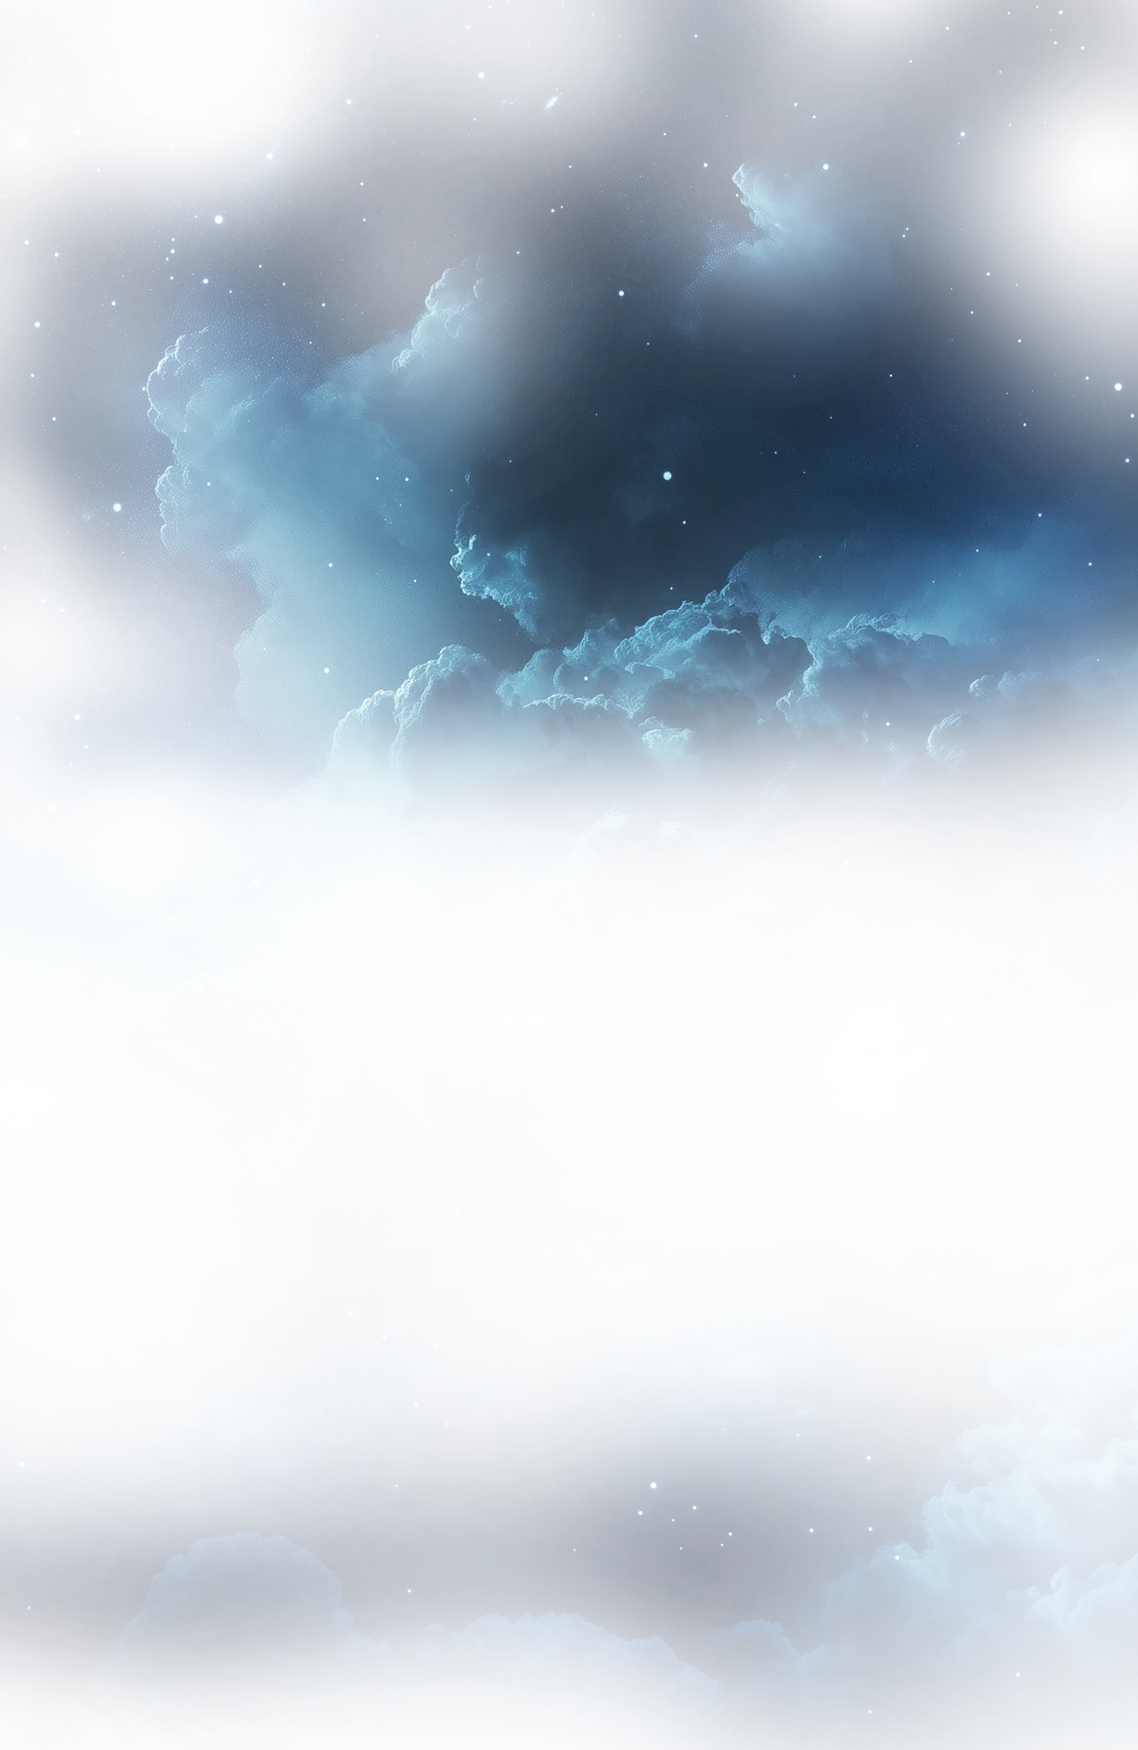
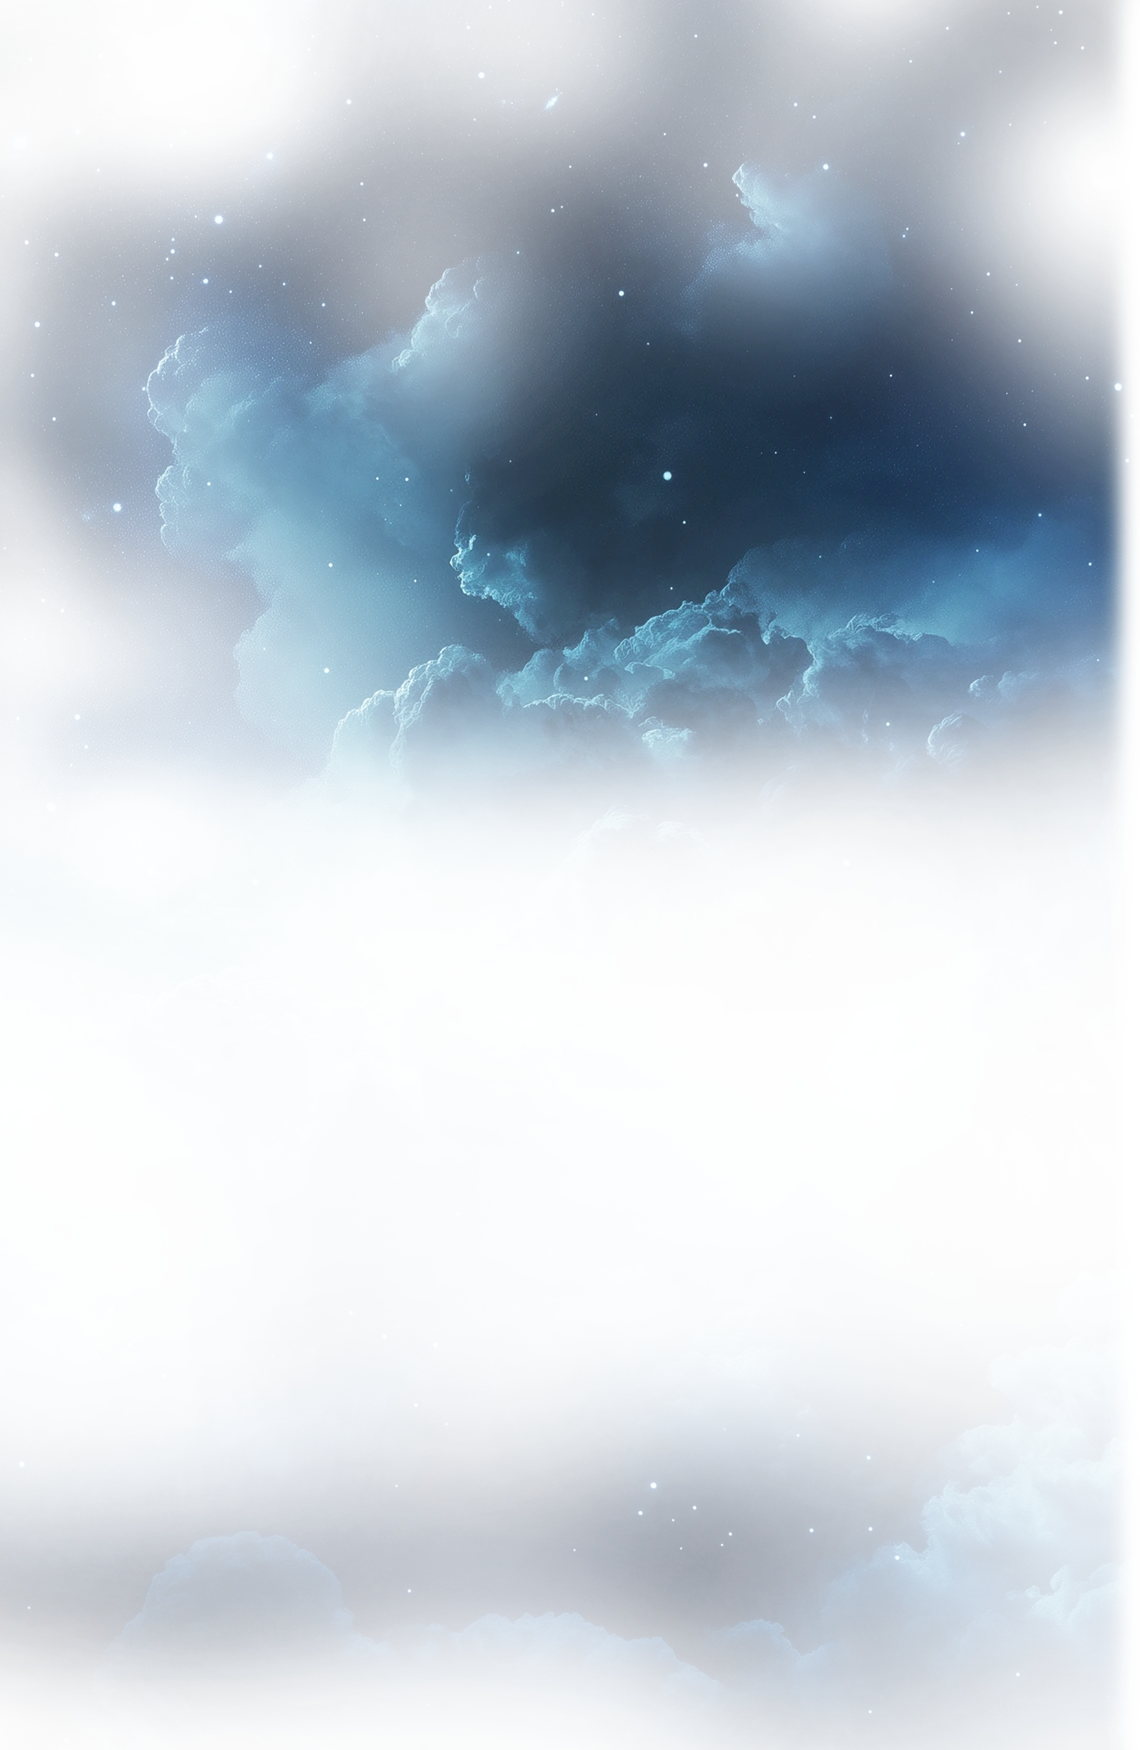
Update Figma assets and enhance atmosphere styles in CSS. Replace book-image, card-backdrop, and section-2-bg with optimized versions. Adjust background properties in globals.css for improved responsiveness and visual consistency. Implement dynamic positioning for atmosphere elements in SunriseAtmos

diff --git a/src/app/globals.css b/src/app/globals.css
@@ -126,6 +126,77 @@
   }
 }
 
+/*
+  `card-backdrop` (the glow behind the hero card) is the one page-atmosphere
+  layer sized to frame a specific element rather than cover the viewport
+  (59.38% — always partial, by design). Left on a plain vw-relative
+  percentage it keeps ballooning past 1920px even though the hero card
+  itself freezes at `--measure-hero`'s cap and just centers — so the glow
+  grows out of proportion to the card it's meant to frame. `--atmosphere-width`
+  freezes it at the 1920px size (identical to the plain percentage below
+  1920px); `--atmosphere-margin` re-centers it at the same rate `.shell`'s
+  `margin-inline: auto` centers the frozen hero column, so the frozen glow
+  stays glued to the card instead of drifting from it. Do not reuse this for
+  a layer that needs to keep covering the full viewport — see `.page-atmosphere`
+  below for why `world-shine`/`world-globe` are handled differently.
+*/
+:root {
+  --atmosphere-width: min(100vw, 1920px);
+  --atmosphere-margin: calc((100vw - var(--atmosphere-width)) / 2);
+}
+
+/*
+  Atmosphere sinking, past 1920px.
+
+  Two fixes were tried and reverted here before landing on this one — see
+  git history on this block if you're revisiting it. Freezing every layer's
+  `background-size` at its 1920px value (to stop `auto` height growing
+  forever) seemed right, but `world-globe` and most of the other layers are
+  sized barely over 100% (globe is 100.21%) specifically so they always
+  fully cover the viewport — freezing their pixel size guarantees a gap
+  the moment a screen is wider than 1920px, which reads as a torn seam
+  where the next layer down shows through. Coverage must never be capped.
+
+  So sizing stays exactly as it always was — plain vw-relative percentages,
+  uncapped, identical at every width to the pre-bug original. What actually
+  needs fixing is `background-position-y`: 7 of the 9 layers are diffuse
+  nebula/starfield with no single identifiable feature, so their `auto`
+  height quietly growing past 1920px is invisible — nothing to fix. Only
+  `world-shine` (the sun glint) and `world-globe` (the earth horizon) have a
+  feature the eye actually tracks, and those two are what "sinks."
+*/
+@media (width >= 120rem) {
+  .page-atmosphere {
+    /*
+      Pin a fixed fraction of the image (not just its top edge) to a fixed
+      page position, so the visible feature holds still no matter how tall
+      `auto` makes the image. Native `Y% × (containerHeight − imageHeight)`
+      already gives the right offset at exactly 1920px — that's `T`. Past
+      1920px, imageHeight grows at `sizeWidth × aspectRatio` per px of
+      viewport width, so holding `T + f × imageHeight` constant means
+      subtracting `f × sizeWidth × aspectRatio` for every px past 1920.
+      `f` (how far down the source image the feature sits) was read off
+      the actual files in public/figma — world-shine.webp, world-globe.webp
+      — not measured from the rendered page, so it holds at any width.
+
+      world-shine: T = 590.163px (native 10% at 1920px), f ≈ 0.40 of its
+      655/1600 aspect ratio → coefficient 0.40 × 1.2193 × 0.409375 = 0.19966.
+      world-globe: T = 377.905px (native 7% at 1920px), f ≈ 0.37 of its
+      1215/1600 aspect ratio → coefficient 0.37 × 1.0021 × 0.759375 = 0.28156.
+    */
+    background-position-y:
+      3.5%,
+      calc(590.163px - (100vw - 1920px) * 0.19966),
+      calc(377.905px - (100vw - 1920px) * 0.28156),
+      0%,
+      34.4%,
+      15.7%,
+      68.2%,
+      62.8%,
+      95.7%;
+  }
+}
+
 @layer base {
   body {
     background-color: var(--color-night);
@@ -204,10 +275,11 @@
       url("/figma/section-1-bg.webp"), url("/figma/section-2-bg.webp"), url("/figma/section-1-2-bridge.webp"),
       url("/figma/section-3-backdrop.webp"), url("/figma/section-2-3-bridge.webp"), url("/figma/footer-backdrop.webp");
     background-repeat: no-repeat;
-    background-size: 59.38% auto, 121.93% auto, 100.21% auto, 100% auto, 152.08% auto, 100% auto, 101.2% auto,
-      102.03% auto, 101.82% auto;
-    background-position: 100.3% 3.5%, 61.3% 10%, 150% 7%, 50% 0%, 50% 34.4%, 50% 15.7%, -2.2% 68.2%, 23.1% 62.8%,
-      14.3% 95.7%;
+    /* card-backdrop (1st) frozen+centered on the hero card — see the comment above --atmosphere-width. */
+    background-size: calc(var(--atmosphere-width) * 0.5938) auto, 121.93% auto, 100.21% auto, 100% auto,
+      152.08% auto, 100% auto, 101.2% auto, 102.03% auto, 101.82% auto;
+    background-position: calc(var(--atmosphere-margin) + var(--atmosphere-width) * 0.40742) 3.5%, 61.3% 10%,
+      150% 7%, 50% 0%, 50% 34.4%, 50% 15.7%, -2.2% 68.2%, 23.1% 62.8%, 14.3% 95.7%;
   }
 
   /*

diff --git a/src/components/concept/reveal/SunriseAtmosphere.tsx b/src/components/concept/reveal/SunriseAtmosphere.tsx
@@ -24,6 +24,19 @@ const GLOBE = {
   opacityCap: 0.18,
 } as const;
 
+/** Figma homepage frame width — content caps here; atmosphere keeps growing past it. */
+const DESIGN_WIDTH = 1920;
+
+/**
+ * Absolute `top` that matches `posY` at DESIGN_WIDTH, then rises 1:1 with image
+ * height growth so the bottom edge stays put on ultra-wide viewports.
+ */
+function bottomLockedTop(posY: string, widthPct: number, asset: { width: number; height: number }) {
+  const aspect = asset.height / asset.width;
+  const heightAtDesign = (widthPct / 100) * DESIGN_WIDTH * aspect;
+  return `calc(${posY} + ${heightAtDesign}px - ${widthPct * aspect}vw)`;
+}
+
 const DAWN_SECONDS = 3;
 const GLOBE_FADE_SECONDS = 1.1;
 const REVEAL_SECONDS = 1.4;
@@ -109,7 +122,7 @@ export function SunriseAtmosphere() {
         style={{
           width: `${GLOBE.widthPct}%`,
           left: `calc((100% - ${GLOBE.widthPct}%) * ${GLOBE.posX})`,
-          top: GLOBE.posY,
+          top: bottomLockedTop(GLOBE.posY, GLOBE.widthPct, artwork.worldGlobe),
         }}
         initial={{ opacity: 0 }}
         animate={{ opacity: globeOpacity }}
@@ -131,7 +144,7 @@ export function SunriseAtmosphere() {
         style={{
           width: `${SHINE.widthPct}%`,
           left: `calc((100% - ${SHINE.widthPct}%) * ${SHINE.posX})`,
-          top: SHINE.posY,
+          top: bottomLockedTop(SHINE.posY, SHINE.widthPct, artwork.worldShine),
         }}
         initial={{ opacity: 0, filter: "brightness(0.45)", y: "6%" }}
         animate={shineAnimate}

diff --git a/src/components/home/ArtistNote.tsx b/src/components/home/ArtistNote.tsx
@@ -8,6 +8,15 @@ import { artwork } from "@/lib/assets";
 /**
  * Book plane is absolute so it keeps Figma’s 1540×543 size without stretching
  * the section or getting cropped by a content-sized background box.
+ *
+ * `max-w-[1540px]` freezes at a flat pixel value — unlike every other
+ * Figma-derived measure in this codebase, that freeze point is keyed to the
+ * *viewport* reaching 1540px, not 1920px, so past that (most laptop widths)
+ * it sits static while the screen keeps growing around it. Past 1920px it
+ * switches to the same `1540 / 19.2 = 80.2083vw` Figma ratio and keeps
+ * scaling instead, matching the frozen value exactly at 1920px so there's no
+ * jump — `max-w-none` is required alongside it, or the still-active
+ * `max-w-[1540px]` clamps the new width straight back down.
  */
 export function ArtistNote() {
   return (
@@ -24,7 +33,7 @@ export function ArtistNote() {
             alt=""
             width={1540}
             height={543}
-            className="h-auto w-full max-w-[1540px] opacity-58"
+            className="h-auto w-full max-w-[1540px] opacity-58 min-[1920px]:w-[80.2083vw] min-[1920px]:max-w-none"
           />
         </div>
 

diff --git a/src/components/home/ValueProps.tsx b/src/components/home/ValueProps.tsx
@@ -10,14 +10,17 @@ const SECTION_BG = { width: 2164, height: 1053 } as const;
 
 /**
  * Backdrop is absolute so it keeps its Figma aspect and bleed without driving
- * section height or cover-cropping inside a content-sized box.
+ * section height or cover-cropping inside a content-sized box. Uncapped
+ * `112.7vw` rather than `min(…, 2164px)` — it's centered on both axes, so it
+ * has no directional feature to drift, and capping it just replaces the bleed
+ * with a growing plain-background margin past 1920px.
  */
 export function ValueProps() {
   return (
     <div className="relative">
       <div
         aria-hidden
-        className="pointer-events-none absolute top-1/2 left-1/2 z-0 w-[min(112.7vw,2164px)] -translate-x-1/2 -translate-y-1/2"
+        className="pointer-events-none absolute top-1/2 left-1/2 z-0 w-[112.7vw] -translate-x-1/2 -translate-y-1/2"
       >
         <Image
           src={surfaces.valueProps}
